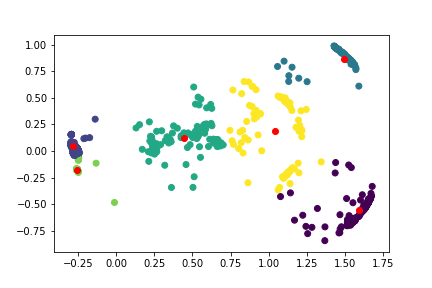
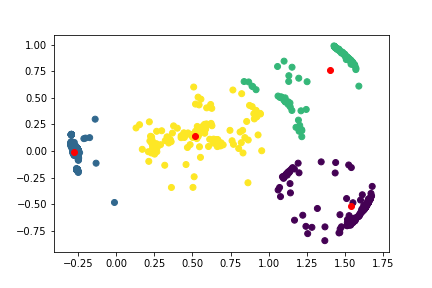
Enhanced documentation to better describe what we did the other day

diff --git a/docs/lab_book.tex b/docs/lab_book.tex
@@ -60,6 +60,8 @@
 \newcommand{\HRule}{\rule{\linewidth}{0.5mm}} % Command to make the lines in the title page
 \setlength\parindent{0pt} % Removes all indentation from paragraphs
 
+\graphicspath{{../reports/figures/}} % Sets the path for all graphics, so only name is needed afterwards.
+
 %----------------------------------------------------------------------------------------
 %	DEFINITION OF EXPERIMENTS
 %----------------------------------------------------------------------------------------
@@ -155,18 +157,36 @@ First, we have modified how we pick the first day data: instead of getting the 2
 
 In addition to the columns dropped the last week, we have also dropped \textit{UUID}. Then every \textit{FFT} and \textit{Middle Sample} rows have been dropped too.\\
 
-We hace choose just two sensors to do an initial exploration.\\
+We have chosen just two sensors to do an initial exploration: \textbf{Accelerometer} and \textbf{Linear acceleration}. The purpose is to try and explore the data related to the movement of the phone.\\
 So, we create a new dataframe with only \textit{Acelerometer} and \textit{Linear Aceleration}. Finally, we drop \textit{Covariances}, as we don't think they will be useful cause they are calculated as the relation \textit{2-by-2} of the axis.
 
 \experiment{Visualization - Clustering}
 
-We then calculate the \textit{PCA} with an \textit{explained\_variance\_ratio} of \textbf{0.78} and \textbf{0.14}.
+We then calculate the \textit{PCA} with an \textit{explained\_variance\_ratio} of \textbf{0.78} and \textbf{0.14}, which is a very good representation of the original 18 features we were studying.
 
-With this results, we plot a \textit{scatterplot} to visualize it.\\
+With this results, we plot a \textit{scatterplot} to visualize it.
 
-After that we run the \textit{k-means} with different number of centroids and print the \textit{silhouette} and \textit{distortion}. By looking at the plots, we have decided to choose \textbf{4} as the final number of centroids.\\
 
-Finally, we run the \textit{k-means} algorithm with said number of centroids and plot the results, each cluster having a different color, and the centroids being colored in red.
+\includegraphics[scale=0.9]{PCA_Plot_Accelerometer_Day1.png}
+
+
+After that we run the \textit{k-means} with different number of centroids and print the \textit{silhouette} and \textit{distortion}. Next we have the measurements of distortion and silhouette of KMeans with different number of centroids.
+
+\includegraphics[scale=1]{KMeans_Distortion_Accelerometer_Day1.png}
+\\
+
+\includegraphics[scale=0.9]{KMeans_Silhouette_Accelerometer_Day1.png}
+\\
+
+
+By looking at the plots, we have decided to choose \textbf{4} as the final number of centroids.\\↔
+
+\newpage
+Finally, we run the \textit{k-means} algorithm with said number of centroids and plot the results, each cluster having a different color, and the centroids being colored in red.\\
+
+\includegraphics[scale=1]{KMeans_Plot_Accelerometer_Day1.png}
+\\
+
 %----------------------------------------------------------------------------------------
 
 \labday{Friday, 26 March 2010}

diff --git a/src/visualization/visualize_Accelerometer.py b/src/visualization/visualize_Accelerometer.py
@@ -54,7 +54,7 @@ max_iter = 300
 tol = 1e-08
 
  # random seed
-random_state = 0
+random_state = 3
 
 distortions = []
 silhouettes = []
@@ -83,7 +83,7 @@ plt.show()
 
 
 # The best number of clusters is 4
-km = KMeans(6, init, n_init = iterations ,max_iter= max_iter, tol = tol,random_state = random_state)
+km = KMeans(4, init, n_init = iterations ,max_iter= max_iter, tol = tol,random_state = random_state)
 labels = km.fit_predict(X_pca)
 df_T["cluster"] = labels
 
